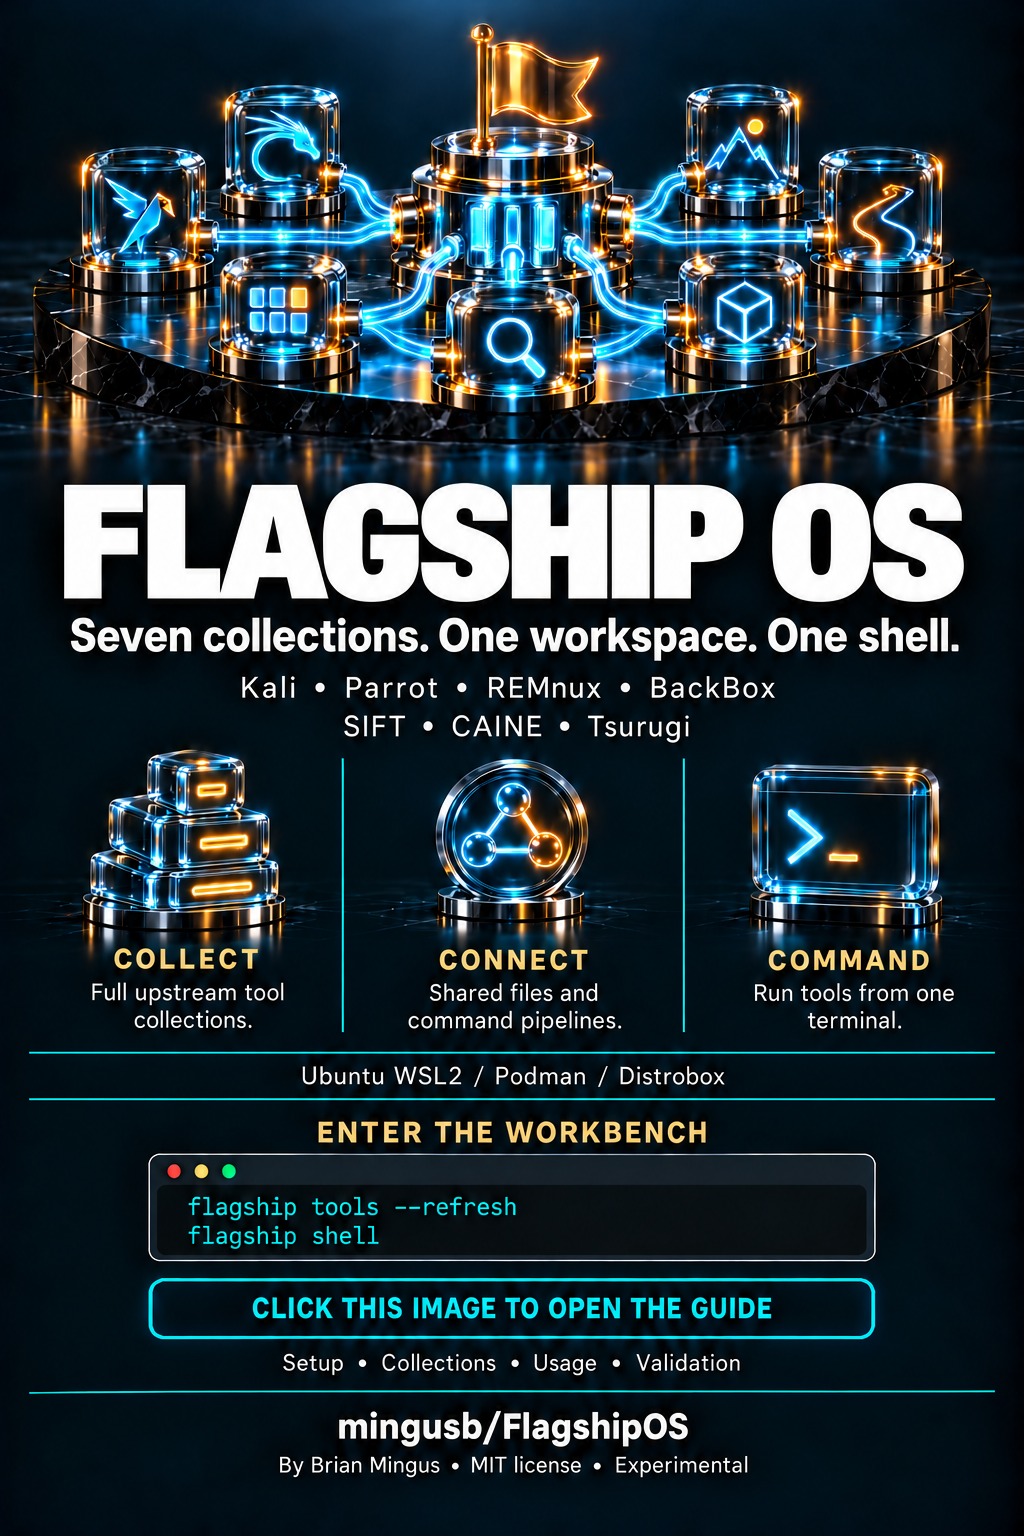
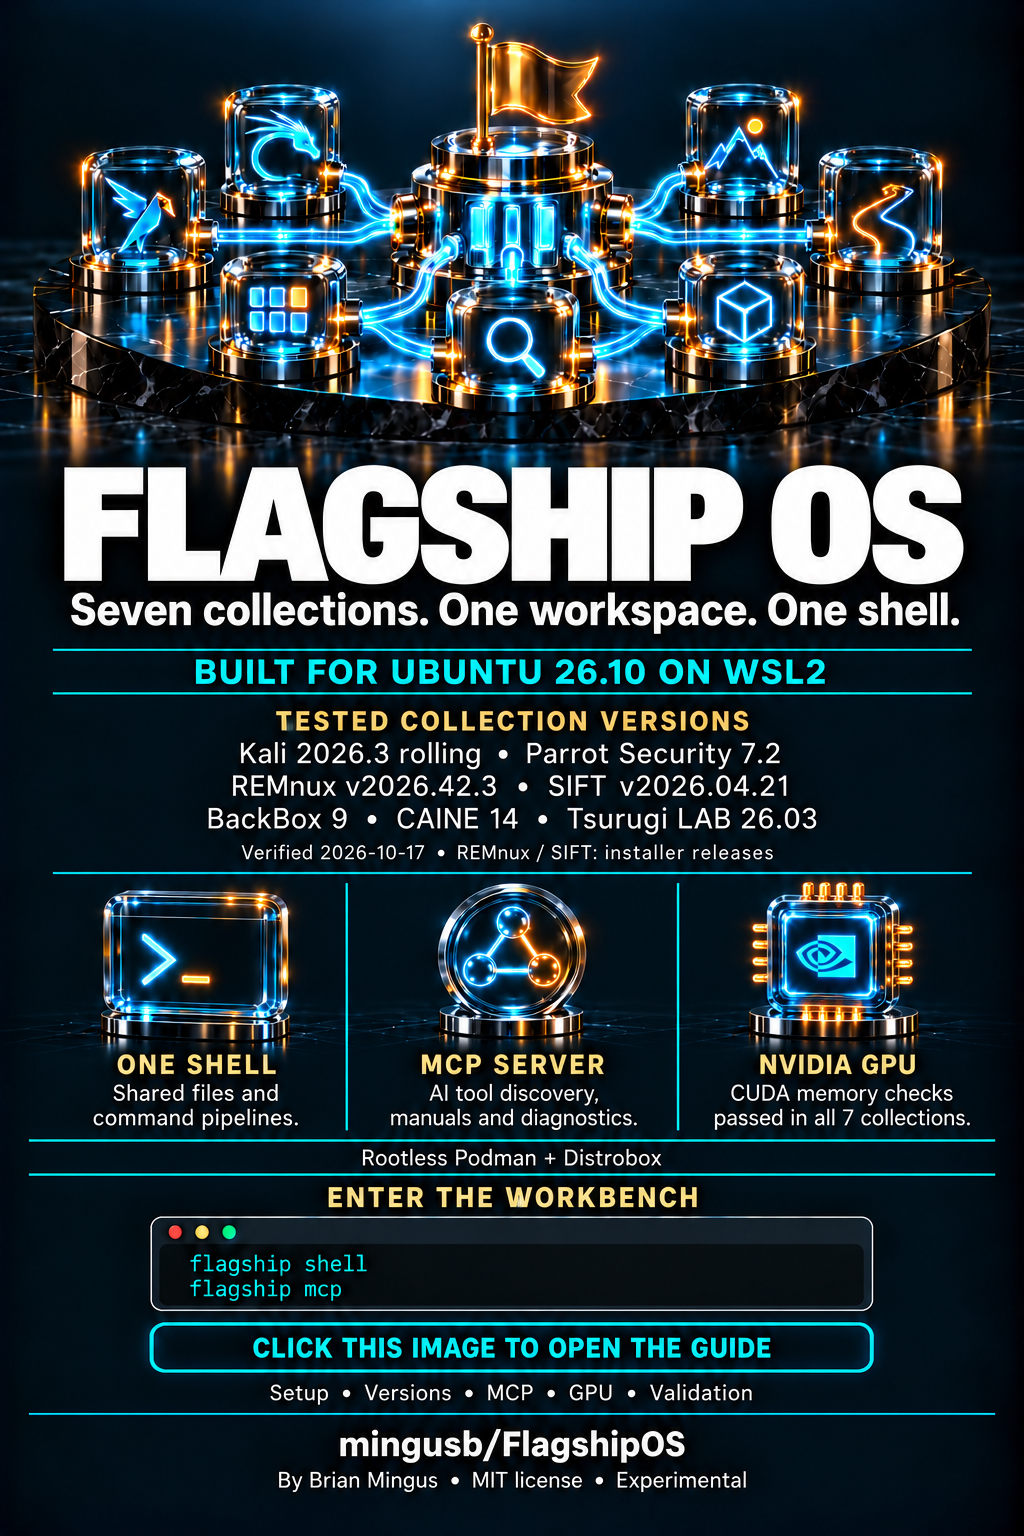
Highlight MCP, CUDA and supported collection versions

Changed region(s): [[0.0625, 0.0, 0.9375, 0.9688]]

diff --git a/PROJECT_GUIDE.md b/PROJECT_GUIDE.md
@@ -3,13 +3,15 @@
 [![CI](https://github.com/mingusb/FlagshipOS/actions/workflows/ci.yml/badge.svg)](https://github.com/mingusb/FlagshipOS/actions/workflows/ci.yml)
 [![License: MIT](https://img.shields.io/badge/License-MIT-blue.svg)](LICENSE)
 
-**Seven Debian-family tool collections, one workspace and shell, on Ubuntu WSL2.**
+**Seven Debian-family tool collections on Ubuntu 26.10 / WSL2, with MCP and NVIDIA CUDA GPU support.**
 
 FlagshipOS manages Kali, Parrot, REMnux, SIFT, BackBox, CAINE and Tsurugi through rootless Podman and Distrobox. Each collection keeps its own libraries and package database. Ubuntu's APT sources stay Ubuntu-only. Executable discovery and routing make installed tools available from one terminal.
 
+The [MCP server](docs/mcp.md) connects AI assistants to tool discovery, package and manual searches, diagnostics and the shared workspace. [NVIDIA GPU support](docs/gpu.md) connects the Windows-provided CUDA driver to the collections; a CUDA memory round trip passed in all seven. The supported and verified host configuration is **Ubuntu 26.10 on WSL2**. Other Linux hosts have not received the same acceptance testing.
+
 **Status: experimental, with seven-collection acceptance completed on fresh Ubuntu 26.10 WSL2.** All seven full installations pass the combined managed package audit and bounded CUDA memory check. The actual shared-shell demonstration passes all seven providers, a cross-provider pipeline, shared files, provider switching and failure-code preservation. Discovery indexes 11,307 unique command names. The MCP-enabled package passes 163 automated tests, including a real protocol connection and installed-wheel checks. These bounded results do not establish universal tool compatibility or production readiness. See [validation and receipts](docs/validation.md), the [captured demonstration](docs/evidence/2026-10-17/seven-provider-transcript.txt) and [application-specific GPU results](docs/gpu.md).
 
-## Start on Ubuntu WSL2
+## Start on Ubuntu 26.10 / WSL2
 
 Use a fresh **Ubuntu 26.10 WSL2** installation and a normal Linux user. Follow [Ubuntu's WSL instructions](https://documentation.ubuntu.com/wsl/latest/guides/install-ubuntu-wsl2/) and verify the image from the [official release directory](https://releases.ubuntu.com/26.10/). Keep the checkout, container storage and workspace in the Linux filesystem. Python 3.11 or newer is required.
 
@@ -37,15 +39,17 @@ flagship check kali
 
 Repeat `prepare` and `create` for `parrot`, `remnux`, `sift` and `backbox`. Creation uses the recorded immutable image ID; repeating `create` reuses a matching managed container.
 
-| Profile | Full collection method |
-| --- | --- |
-| `kali` | Official pinned Kali base plus `kali-linux-everything`, including recommends |
-| `parrot` | Official pinned Security base plus `parrot-tools-full`, including recommends |
-| `remnux` | Official pinned Noble container expanded with the upstream full installer |
-| `sift` | Ubuntu 24.04 plus the upstream SIFT desktop installation through Cast |
-| `backbox` | Ubuntu 24.04 plus the signed BackBox 9 repository and `backbox-tools`, including recommends |
-| `caine` | Extract and import the verified CAINE 14 release filesystem |
-| `tsurugi` | Extract and import the verified Tsurugi LAB 26.03 release filesystem |
+| Profile | Tested collection version | Full collection method |
+| --- | --- | --- |
+| `kali` | **Kali 2026.3 rolling** | Official pinned Kali base plus `kali-linux-everything` **2026.3.9**, including recommends |
+| `parrot` | **Parrot Security 7.2 (Echo)** | Official pinned Security base plus `parrot-tools-full` **7.1.2**, including recommends |
+| `remnux` | **REMnux installer v2026.42.3** | Official pinned Ubuntu 24.04 Noble container expanded with the full dedicated installer |
+| `sift` | **SIFT installer v2026.04.21** | Ubuntu 24.04 plus the full desktop installation through Cast |
+| `backbox` | **BackBox 9** | Ubuntu 24.04 plus the signed BackBox 9 repository and `backbox-tools` **9.0.1**, including recommends |
+| `caine` | **CAINE 14 (Lightstream)** | Extract and import the verified CAINE 14 release filesystem |
+| `tsurugi` | **Tsurugi LAB 26.03 (Shingan)** | Extract and import the verified Tsurugi LAB 26.03 release filesystem |
+
+These are the baselines verified in the [2026-10-17 seven-collection package audit](docs/evidence/2026-10-17/seven-collection-package-audit.json), with installer pins recorded in the [recipes](src/flagship/recipes). REMnux and SIFT use installer release numbers; BackBox identifies the tool collection. The Ubuntu 26.10 host remains separate from the Ubuntu 24.04 bases used by several providers. Rolling repositories can supply newer packages on a subsequent build.
 
 Only CAINE and Tsurugi need official ISO extraction in this workflow. Follow the [profile and import guide](docs/profiles.md). Full collection means the selected upstream collection or release filesystem, not every historical package or guaranteed WSL functionality.
 

diff --git a/docs/profiles.md b/docs/profiles.md
@@ -2,7 +2,7 @@
 
 The Ubuntu WSL host keeps its Ubuntu repositories. Each environment has its own libraries, package database and repositories. Recipes build images before Distrobox connects them to your workspace.
 
-**Full builds and a live unified seven-profile demonstration are pending.** The methods below describe implemented recipes and verified upstream sources, not completed installation results.
+**All seven full installations passed the 2026-10-17 managed package audit and shared-shell demonstration on Ubuntu 26.10 / WSL2.** See the [tested collection versions](../PROJECT_GUIDE.md#prepare-collections) and [validation record](validation.md) for the exact baselines and scope.
 
 ## Five build recipes
 
@@ -16,7 +16,7 @@ Use `flagship prepare PROFILE`, then `flagship create PROFILE` and `flagship che
 | SIFT | Ubuntu 24.04, Cast `v1.0.42`, SIFT [`v2026.04.21` desktop mode](https://github.com/teamdfir/sift-saltstack/releases/download/v2026.04.21/manifest.yml) | Release manifest supports Ubuntu 22.04 and 24.04; current recipe requires amd64. Some introductory SANS instructions still name 22.04 |
 | BackBox | Ubuntu 24.04 plus the official [BackBox nine/noble archive](https://api.launchpad.net/1.0/~backbox/+archive/ubuntu/nine) and [Rapid7 package repository](https://github.com/rapid7/metasploit-omnibus/blob/master/USAGE.md), `backbox-tools` with recommends | Full tool metapackage, observed version 9.0.1 on 2026-10-17; Rapid7 supplies the required `metasploit-framework` dependency; desktop appearance/settings are separate |
 
-Inspect the bundled [Containerfiles](../src/flagship/recipes). Recipes check APT dependencies and pending dpkg problems and save `/usr/local/share/flagship/package-inventory.tsv`. This does not enumerate every custom `/opt` or user-installed tool. REMnux/SIFT installer service and home assumptions still need live verification.
+Inspect the bundled [Containerfiles](../src/flagship/recipes). Recipes check APT dependencies and pending dpkg problems and save `/usr/local/share/flagship/package-inventory.tsv`. This does not enumerate every custom `/opt` or user-installed tool. The full REMnux and SIFT installers passed with the adaptations recorded in the [validation record](validation.md); individual service and desktop behavior requires separate testing.
 
 BackBox's repository key fingerprint is `F10FF8AFAF205A39312C0A20F2B4C9A44882013D`, checked against official Launchpad metadata. Rapid7's key fingerprint is `97B32012EA1176F053727A95C048F0B49DEEC457`, checked against the key embedded in its [upstream installer](https://github.com/rapid7/metasploit-omnibus/blob/25a202b4e6226631cb0f24716b2fff0136312805/config/templates/metasploit-framework-wrappers/msfupdate.erb). Rapid7 deliberately uses the suite name `lucid main` for its bundled-package repository; this does not add Ubuntu Lucid's operating-system repositories. Each source uses its own `Signed-By` keyring inside the BackBox image. Never add these sources to the Ubuntu host or another collection.
 

diff --git a/README.md b/README.md
@@ -1,1 +1,1 @@
-[![FlagshipOS — seven collections, one workspace, one shell. Kali, Parrot, REMnux, BackBox, SIFT, CAINE and Tsurugi on Ubuntu WSL2 through Podman and Distrobox. Collect full upstream tools, share files and command pipelines, and run tools from one terminal. Experimental; FlagshipOS code is MIT licensed. Click the image for setup, collections, usage and validation.](project-overview.png)](PROJECT_GUIDE.md)
+[![Flagship OS — seven collections, one workspace, one shell. Built for Ubuntu 26.10 on WSL2 with MCP integration for AI assistants and NVIDIA CUDA GPU support. Tested collection versions: Kali 2026.3 rolling; Parrot Security 7.2; REMnux installer v2026.42.3; SIFT installer v2026.04.21; BackBox 9; CAINE 14; Tsurugi LAB 26.03. Verified 2026-10-17. MCP provides tool discovery, manuals and diagnostics. CUDA memory checks passed in all seven collections. Rootless Podman and Distrobox share files and command pipelines. Experimental; FlagshipOS code is MIT licensed. Click the image for setup, versions, MCP, GPU and validation.](project-overview.png)](PROJECT_GUIDE.md)
